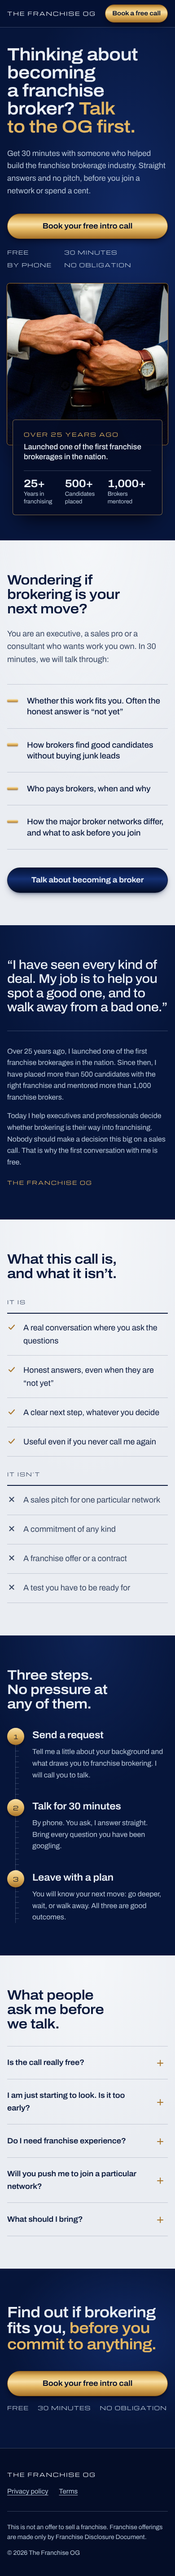
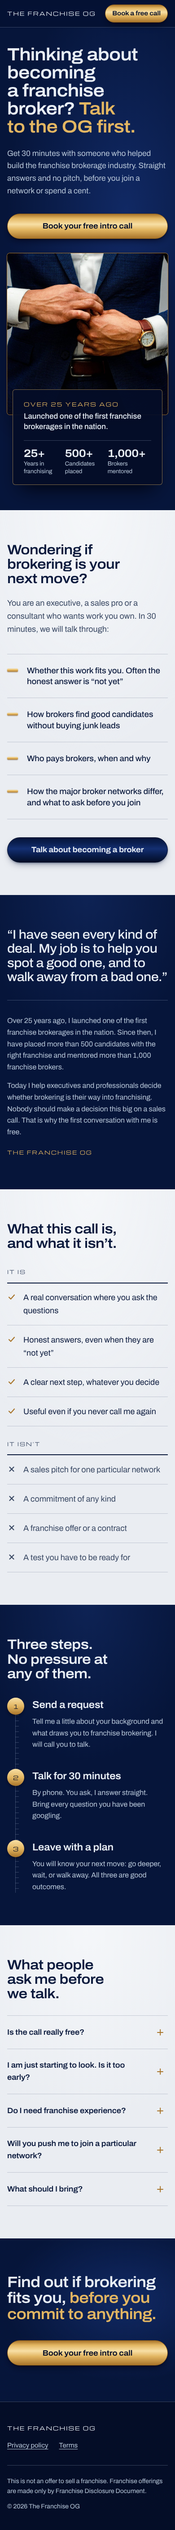
Remove the call terms from the hero and closing section
Drops the 'Free · 30 minutes · By phone · No obligation' lines under both
booking buttons, along with their now-unused styles. Updates screenshots.

Claude-Session: https://claude.ai/code/session_01JxxiYpuoB957MBmbXwwiiH

Changed region(s): [[0.0, 0.0, 1.0, 0.9352], [0.0308, 0.9663, 0.3077, 0.9975], [0.3385, 0.9663, 0.4615, 0.9975]]

diff --git a/styles.css b/styles.css
@@ -140,7 +140,6 @@ h3 { font-size: 1.2rem; font-stretch: 106%; letter-spacing: -0.01em; line-height
 
 /* the small printed-caps voice */
 .wordmark,
-.terms,
 .track__num,
 .why__sign,
 .ledger h3 {
@@ -225,12 +224,8 @@ h3 { font-size: 1.2rem; font-stretch: 106%; letter-spacing: -0.01em; line-height
   font-size: clamp(1.0625rem, 1rem + 0.35vw, 1.25rem);
   color: var(--on-navy-soft);
 }
-.hero .terms { display: grid; grid-template-columns: repeat(2, max-content); gap: 0.55rem 1.75rem; }
 .hero__actions { margin-top: 2.25rem; display: grid; justify-items: start; gap: 1.25rem; }
 
-.terms { display: flex; flex-wrap: wrap; gap: 0.4rem 0; color: var(--on-navy-soft); font-size: 0.75rem; }
-.terms { gap: 0.5rem 1.6rem; }
-.terms li { display: inline-flex; align-items: center; white-space: nowrap; }
 
 .hero__photo { position: relative; padding-left: 8%; }
 .hero__photo img {
@@ -453,8 +448,6 @@ h3 { font-size: 1.2rem; font-stretch: 106%; letter-spacing: -0.01em; line-height
   .pusher--small { min-height: 2.5rem; padding: 0 0.95rem; font-size: 0.875rem; }
   .hero__actions .pusher, .closer__actions .pusher, .fit__foot .pusher { width: 100%; }
   .hero__actions, .closer__actions { justify-items: stretch; }
-  .terms { display: grid; grid-template-columns: repeat(2, max-content); justify-content: start; gap: 0.55rem 1.5rem; letter-spacing: 0.1em; }
-  .closer .terms { display: flex; flex-wrap: wrap; gap: 0.55rem 1.25rem; }
   .closer__cta { justify-items: stretch; }
 
   .hero__photo { padding-left: 0; }

diff --git a/index.html b/index.html
@@ -32,12 +32,6 @@
           <p class="hero__lede">Get 30 minutes with someone who helped build the franchise brokerage industry. Straight answers and no pitch, before you join a network or spend a cent.</p>
           <div class="hero__actions">
             <a class="pusher" data-booking data-interest="Becoming a franchise broker" href="#">Book your free intro call</a>
-            <ul class="terms" aria-label="About the call">
-              <li>Free</li>
-              <li>30 minutes</li>
-              <li>By phone</li>
-              <li>No obligation</li>
-            </ul>
           </div>
         </div>
 
@@ -176,11 +170,6 @@
         <div class="closer__cta">
           <div class="closer__actions">
             <a class="pusher" data-booking data-interest="Becoming a franchise broker" href="#">Book your free intro call</a>
-            <ul class="terms" aria-label="About the call">
-              <li>Free</li>
-              <li>30 minutes</li>
-              <li>No obligation</li>
-            </ul>
           </div>
         </div>
       </div>
